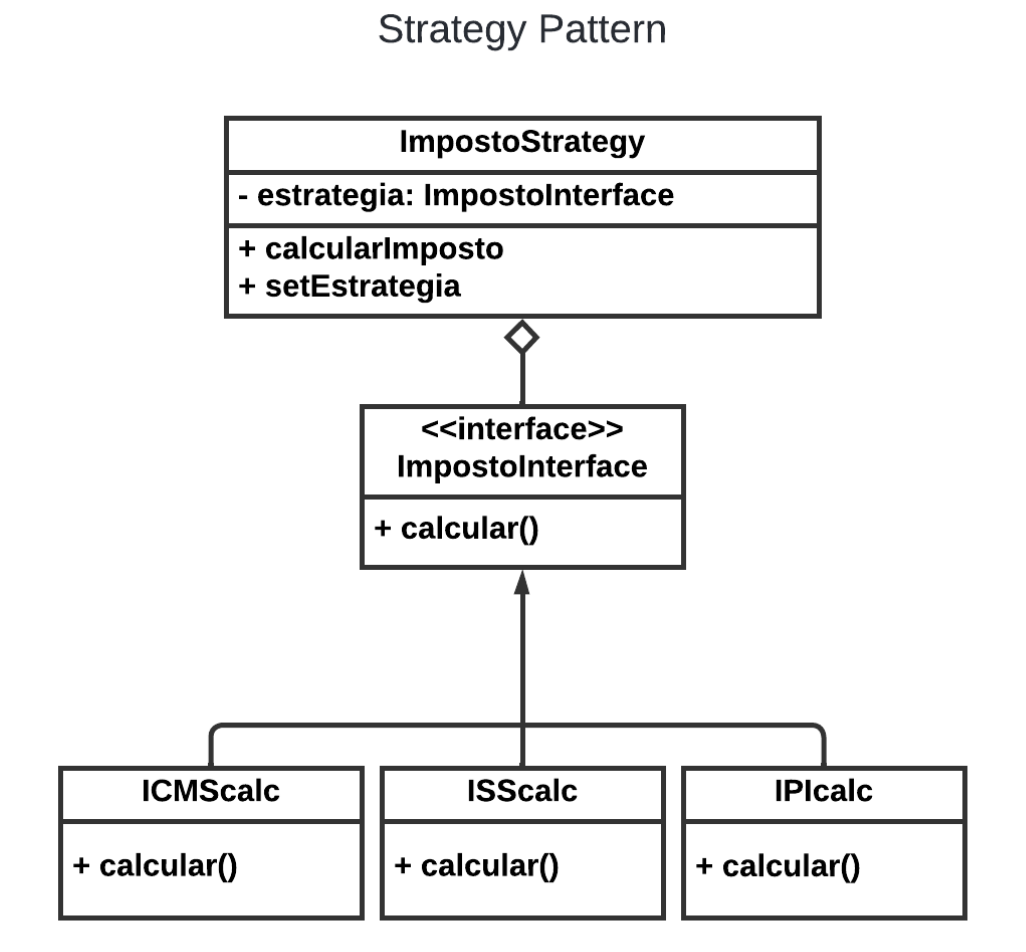
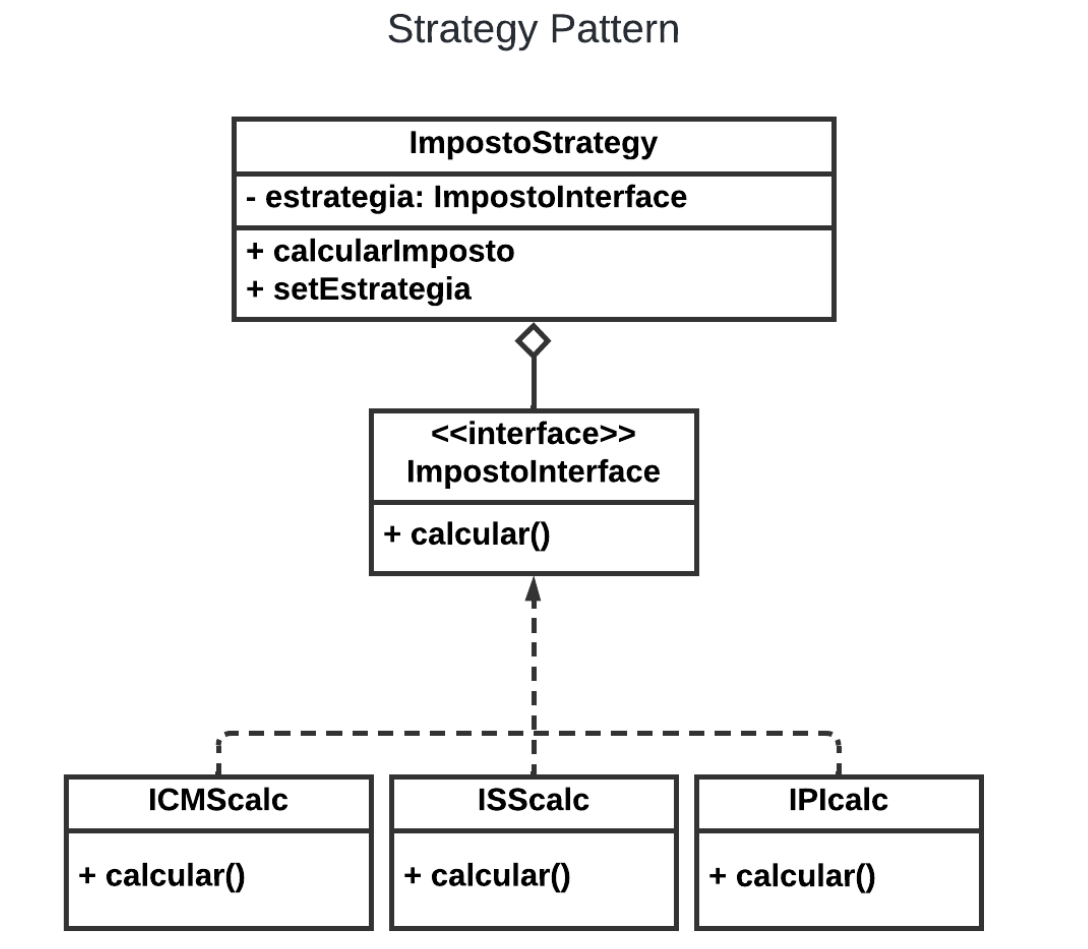
Implementação do composite pattern e UML | Ajuste do UML do strategy pattern

Changed region(s): [[0.0312, 0.1222, 0.9669, 1.0], [0.3431, 0.0, 0.655, 0.0611]]

diff --git a/padroes/src/main/java/org/example/composite/pattern/Main.java b/padroes/src/main/java/org/example/composite/pattern/Main.java
@@ -1,0 +1,21 @@
+package org.example.composite.pattern;
+
+
+public class Main {
+    public static void main(String[] args) {
+        Product cd = new SimpleProduct("CD de Rock", 30.0);
+        Product livro = new SimpleProduct("Livro Java", 50.0);
+        Product fone = new SimpleProduct("Fone de Ouvido", 80.0);
+
+        ProductPackage pacote1 = new ProductPackage("Pacote Estudo");
+        pacote1.addProduct(livro);
+        pacote1.addProduct(cd);
+
+        ProductPackage pacote2 = new ProductPackage("Pacote Completo");
+        pacote2.addProduct(pacote1);
+        pacote2.addProduct(fone);
+
+        System.out.println(pacote1.getName() + " custa R$ " + pacote1.getPrice());
+        System.out.println(pacote2.getName() + " custa R$ " + pacote2.getPrice());
+    }
+}

diff --git a/padroes/src/main/java/org/example/composite/pattern/ProductPackage.java b/padroes/src/main/java/org/example/composite/pattern/ProductPackage.java
@@ -1,0 +1,29 @@
+package org.example.composite.pattern;
+
+import java.util.ArrayList;
+import java.util.List;
+
+public class ProductPackage implements Product {
+    private String name;
+    private List<Product> products = new ArrayList<>();
+
+    public ProductPackage(String name) {
+        this.name = name;
+    }
+
+    public void addProduct(Product product) {
+        products.add(product);
+    }
+
+    public String getName() {
+        return name;
+    }
+
+    public double getPrice() {
+        double total = 0;
+        for (Product p : products) {
+            total += p.getPrice();
+        }
+        return total;
+    }
+}

diff --git a/padroes/src/main/java/org/example/composite/pattern/SimpleProduct.java b/padroes/src/main/java/org/example/composite/pattern/SimpleProduct.java
@@ -1,0 +1,19 @@
+package org.example.composite.pattern;
+
+public class SimpleProduct implements Product {
+    private String name;
+    private double price;
+
+    public SimpleProduct(String name, double price) {
+        this.name = name;
+        this.price = price;
+    }
+
+    public String getName() {
+        return name;
+    }
+
+    public double getPrice() {
+        return price;
+    }
+}

diff --git a/padroes/src/main/java/org/example/composite/pattern/Product.java b/padroes/src/main/java/org/example/composite/pattern/Product.java
@@ -1,0 +1,6 @@
+package org.example.composite.pattern;
+
+public interface Product {
+    String getName();
+    double getPrice();
+}
